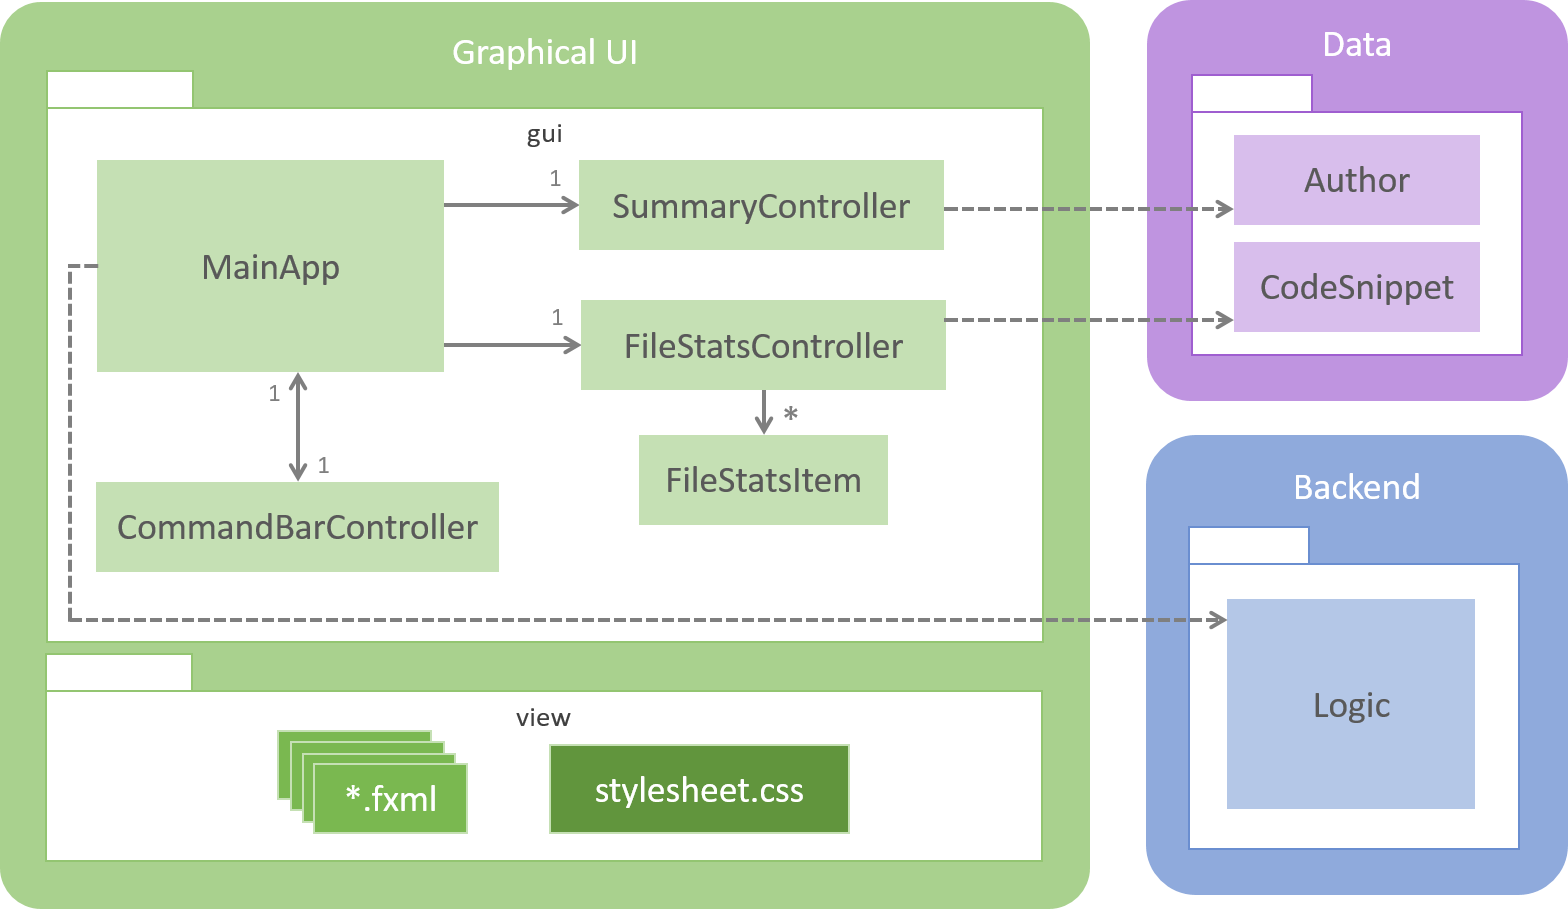
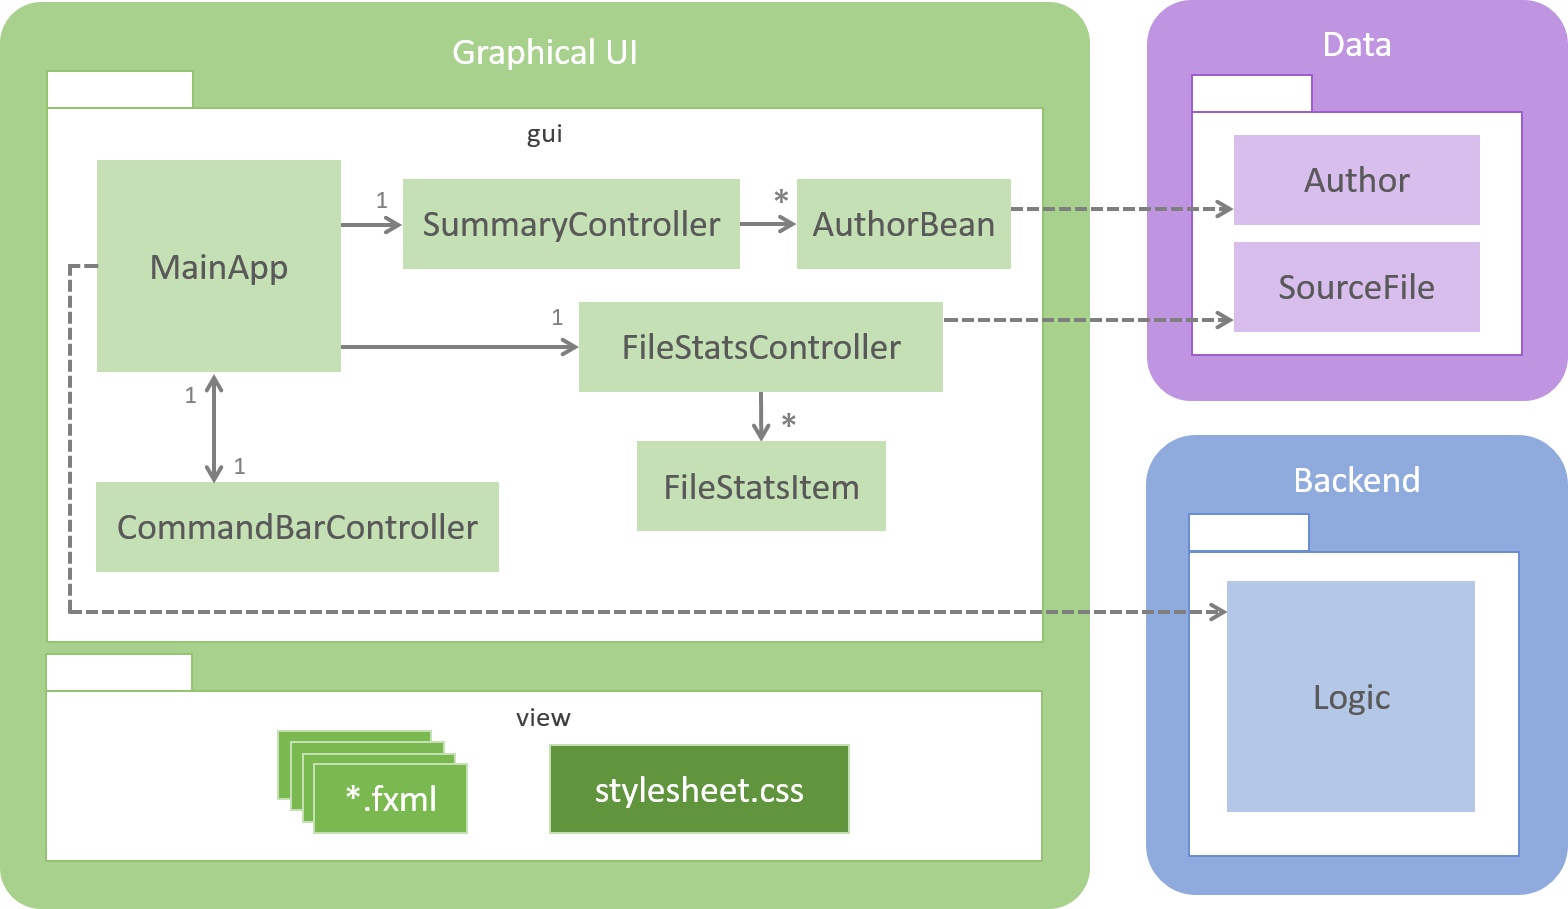
Updated documentation for the new AuthorBean class.

diff --git a/docs/Developer-Guide.md b/docs/Developer-Guide.md
@@ -24,6 +24,7 @@ so that you can understand the big picture before moving on to the more detailed
     - [`MainApp` Class](#mainapp-class)
     - [`CommandBarController` Class](#commandbarcontroller-class)
     - [`SummaryController` Class](#summarycontroller-class)
+    - [`AuthorBean` Class](#authorbean-class)
     - [`FileStatsController` Class](#filestatscontroller-class)
     - [`FileStatsItem` Class](#filestatsitem-class)
 - [Testing](#testing)
@@ -173,16 +174,6 @@ display that users will see.
 This class represents authors who have contributed to the project. Each `Author` can have multiple 
 associated `CodeSnippet` objects.
 
-The `Author` class is also specially constructed to make it easier for the GUI to use its fields. 
-`Author` objects have several fields of `Property` type. These class variables are special JavaFX constructs 
-which behave in a similar manner as typical Java types such as integer, double and String types. For example, 
-`Author` has a `IntegerProperty` type for its `linesOfCode` variable. This variable contains an integer 
-which can be accessed by calling `linesOfCode.get()`.
-
-By utilising JavaFX `Property` types, the GUI can interact directly with the `Author` class to render details in a table easily.
-
-> You can read more about JavaFX Properties [here](https://docs.oracle.com/javase/8/javafx/properties-binding-tutorial/binding.htm).
-
 ## `CodeSnippet` Class
 Each `CodeSnippet` represents the lines of code between two consecutive author tags that were written by an 
 `Author`. Since this code belongs to a file, a `SourceFile` object is associated with each `CodeSnippet` object.
@@ -291,11 +282,25 @@ This class loads `Summary.fxml` which is a type of `StackPane` (also a type of `
 > The use of `StackPane` ensures the `TableView` has a maximum height and width i.e fills the space given 
 by its parent container.
 
-`SummaryController` uses JavaFX's APIs to iterate through `Author` objects (from the `data` package) and 
-construct rows based on certain attributes of these objects.
+`SummaryController` converts `Author` objects (from the `data` package) to their corresponding `AuthorBean` objects and 
+construct rows based on certain attributes of the `AuthorBean` objects.
 
 > More details of these JavaFX APIs can be found 
 [here](https://docs.oracle.com/javase/8/javafx/api/javafx/scene/control/TableView.html).
+
+## `AuthorBean` Class
+The `AuthorBean` class is a wrapper for the `Author` class. It represents fields in the `Author` class in a way 
+that makes it easier for the GUI to interact with.
+
+`AuthorBean` objects have several fields of `Property` type. These class variables are special JavaFX constructs 
+which behave in a similar manner as typical Java types such as integer, double and String types. For example, 
+`AuthorBean` has a `IntegerProperty` type for its `linesOfCode` variable. This variable contains an integer 
+which can be accessed by calling `linesOfCode.get()`.
+
+By utilising JavaFX `Property` types, the GUI can interact indirectly with the `Author` class to render details 
+in a table easily without sacrificing the semantics of the `Author` class.
+
+> You can read more about JavaFX Properties [here](https://docs.oracle.com/javase/8/javafx/properties-binding-tutorial/binding.htm).
 
 ## `FileStatsController` Class
 The `FileStatsController` controls the display that is shown when a user enters the `view` command. 
